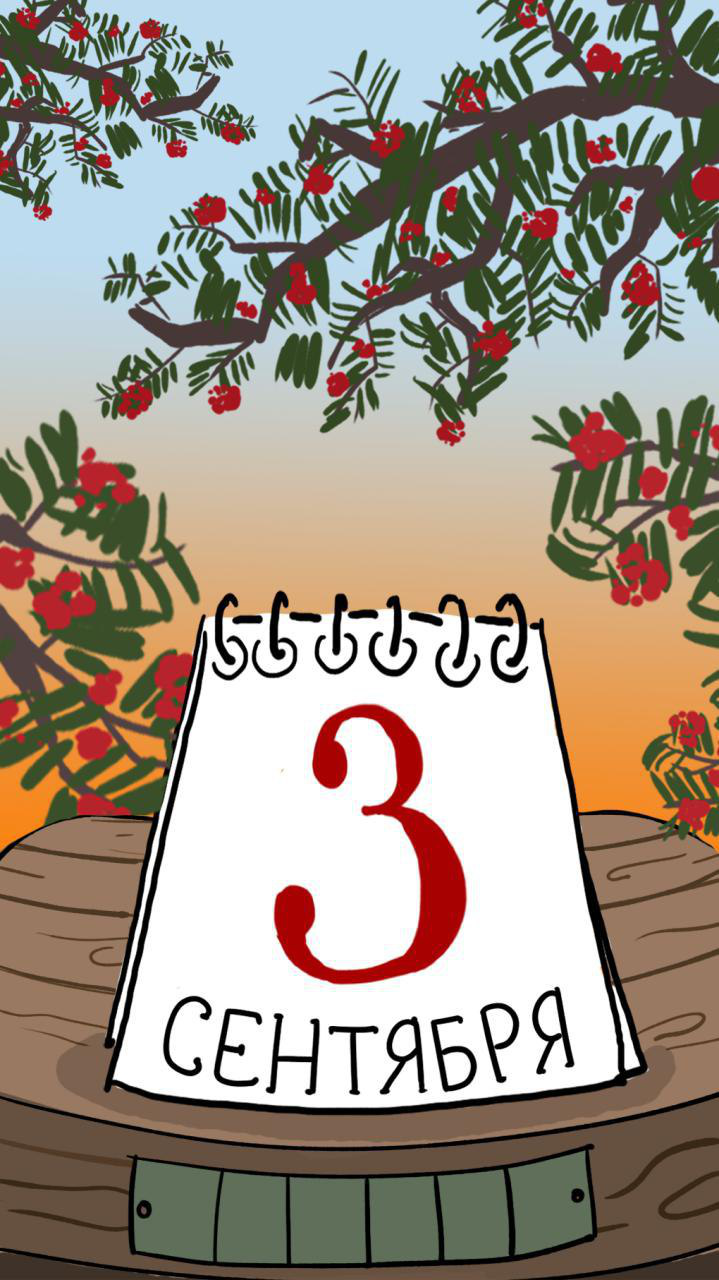
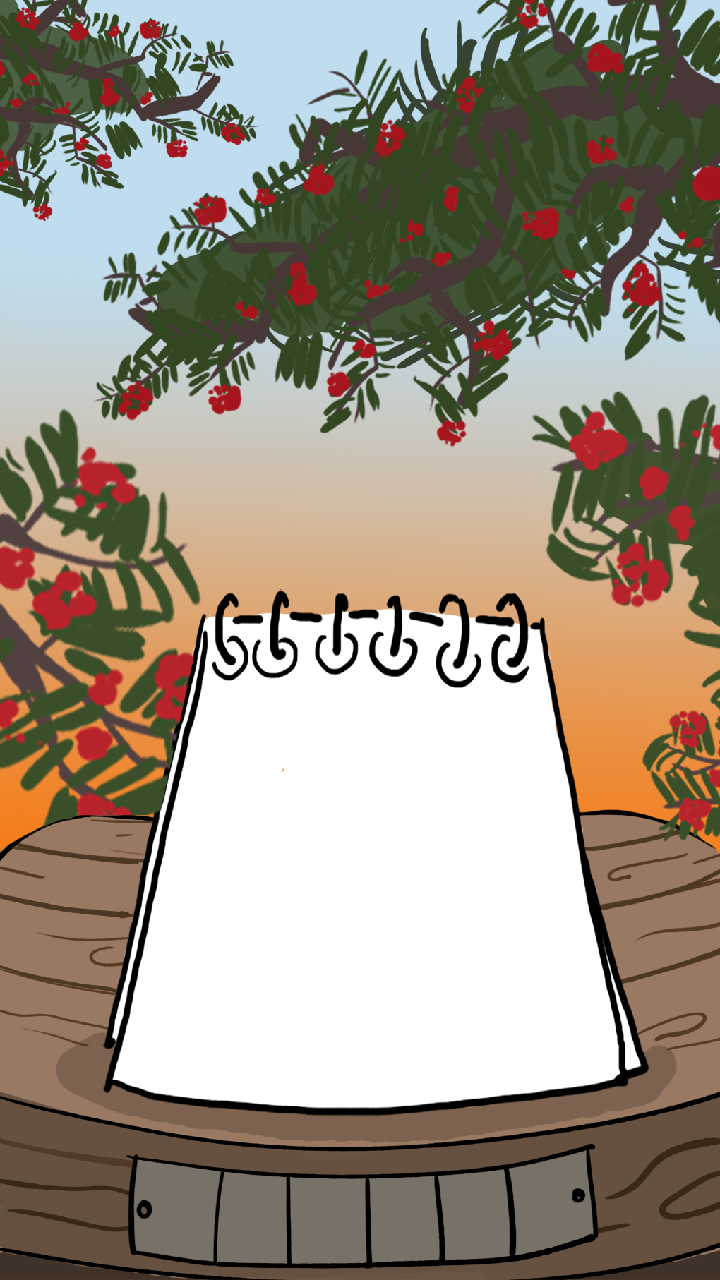
added calendar flipping

diff --git a/src/main.js b/src/main.js
@@ -1,4 +1,103 @@
-var game = new Phaser.Game(720, 1280, Phaser.AUTO, '', { preload: preload, create: create, update: update });
+const WIDTH = 720;
+const HEIGHT = 1280;
+const COOLDOWN = 15;
+
+
+let game = new Phaser.Game(WIDTH, HEIGHT, Phaser.AUTO, '', { preload: preload, create: create, update: update });
+
+
+let controller;
+let repButton;
+let calendar;
+
+
+function Controller()
+{
+    this.back = game.add.sprite(0, 0, 'back');
+    this.back.inputEnabled = true;
+
+}
+
+function RepButton(x,y)
+{
+
+    this.pressed =function() {
+
+
+        console.log("You reposted in the wrong neighborhood");
+
+        //send("VKWebAppShowWallPostBox", {"message": "Перевернул 300 листов и не жалею об этом! #Шуфунтач","attachments":"photo-54781675_457239018,https://vk.com/app7119027"});
+        send("VKWebAppShowWallPostBox", {"message": "test! #hashtag","attachments":"photo-54781675_457239019,https://vk.com/app7119527_59559418"});
+
+
+    }
+
+    let obj = game.add.button(40, 40, 'repButton', this.pressed, this, 2, 1, 0);
+}
+
+function Calendar()
+{
+
+    this.sept = game.add.sprite(0,0,'3sept');
+    this.anim1 = game.add.sprite(0,0,'anim1');
+    this.anim2 = game.add.sprite(0,0,'anim2');
+
+    this.anim1.animations.add('flip',[0,1,2,3,4,5,6],20,false);
+    this.anim2.animations.add('flip',[0,1,2,3,4,5,6],20,false);
+
+
+    this.anim1.animations.getAnimation('flip').onComplete.add(
+        function(){this.visible=false},this.anim1);
+    this.anim2.animations.getAnimation('flip').onComplete.add(
+        function(){this.visible=false},this.anim2);
+
+
+    this.anim1.visible = false;
+    this.anim2.visible = false;
+    this.cooldown = 0;
+    this.play1 = true;
+
+    this.click =  function()
+    {
+        if (this.cooldown<=1)
+        {
+
+            if (this.play1)
+            {
+                this.anim1.visible = true;
+                this.anim1.animations.play('flip');
+            }
+            else
+            {
+                this.anim2.visible = true;
+                this.anim2.animations.play('flip');
+            }
+
+
+            this.play1 = !this.play1;
+            this.cooldown = COOLDOWN;
+        }
+
+    }
+
+    this.update = function()
+    {
+        if (this.cooldown === Math.trunc(COOLDOWN*0.3))
+        {
+            this.sept.x = -3+Math.floor(Math.random()*6)
+            this.sept.y = -3+Math.floor(Math.random()*6)
+        }
+
+        if (this.cooldown>0)
+        this.cooldown-=1;
+    }
+
+    controller.back.events.onInputDown.add(this.click, this);
+}
+
+
+
+
 
 
 
@@ -7,39 +106,26 @@ function preload() {
     game.scale.pageAlignHorizontally = true;
     game.scale.pageAlignVertically = true;
     game.load.image('back', 'assets/back.png');
-    game.load.image('button', 'assets/button.png');
-}
-
-function actionOnClick () {
-
-
-    //url=https://vk.com/app7119027_59559418?
-
-/*
-    var url  = 'http://vkontakte.ru/share.php?';
-    url += 'url='          + encodeURIComponent('https://vk.com/app7119027_59559418');
-    url += '&title='       + encodeURIComponent('ptitle');
-    url += '&description=' + encodeURIComponent('text');
-    //url += '&image='       + encodeURIComponent(pimg);
-    url += '&noparse=true';
-
-    window.open(url, "_blank");*/
-
-
-    //send("VKWebAppGetUserInfo", {});
-    //send("VKWebAppShowWallPostBox", {"message": "Перевернул 300 листов и не жалею об этом! #Шуфунтач","attachments":"photo-54781675_457239018,https://vk.com/app7119027"});
-    send("VKWebAppShowWallPostBox", {"message": "test! #hashtag","attachments":"photo-54781675_457239019,https://vk.com/app7119527_59559418"});
-
-
-}
-
-function create() {
-
-    game.add.sprite(0, 0, 'back');
-    button = game.add.button(15, 40, 'button', actionOnClick, this, 2, 1, 0);
+    game.load.image('repButton', 'assets/repButton.png');
+    game.load.image('3sept','assets/3sept.png')
+    game.load.spritesheet('anim1','assets/anim1.png',WIDTH,HEIGHT);
+    game.load.spritesheet('anim2','assets/anim2.png',WIDTH,HEIGHT);
 }
 
 
-function update() {
 
+function create()
+{
+
+
+    controller = new Controller();
+    repButton = new RepButton(10,10);
+    calendar = new Calendar();
+
+}
+
+
+function update()
+{
+    calendar.update();
 }
